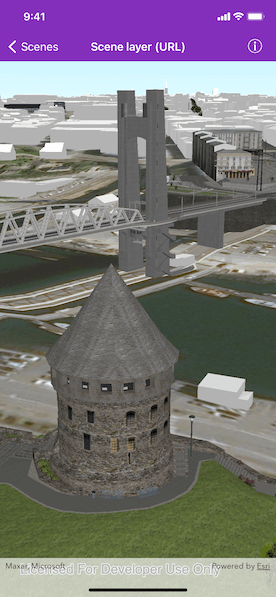
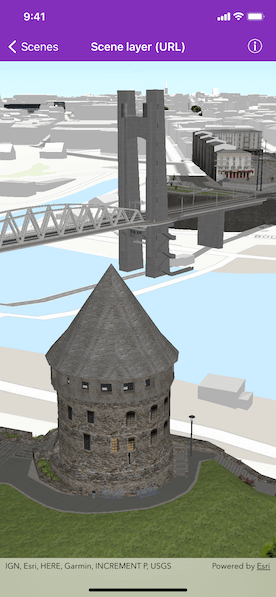
Update scene layer URL.

diff --git a/arcgis-ios-sdk-samples/Scenes/Scene layer (URL)/SceneLayerURLViewController.swift b/arcgis-ios-sdk-samples/Scenes/Scene layer (URL)/SceneLayerURLViewController.swift
@@ -27,7 +27,7 @@ class SceneLayerURLViewController: UIViewController {
         (self.navigationItem.rightBarButtonItem as! SourceCodeBarButtonItem).filenames = ["SceneLayerURLViewController"]
         
         // initialize scene with topographic basemap
-        let scene = AGSScene(basemap: .imagery())
+        let scene = AGSScene(basemap: .topographic())
         
         // assign scene to the scene view
         self.sceneView.scene = scene

diff --git a/arcgis-ios-sdk-samples/Scenes/Scene layer (URL)/README.md b/arcgis-ios-sdk-samples/Scenes/Scene layer (URL)/README.md
@@ -14,7 +14,7 @@ Pan and zoom to explore the scene.
 
 ## How it works
 
-1. Create an `AGSScene` with an `imagery()` basemap.
+1. Create an `AGSScene` with a topographic basemap.
 2. Apply the scene to an `AGSSceneView`.
 3. Create an `AGSArcGISTiledElevationSource` with a URL and add it to an `AGSSurface`.
 4. Apply the surface to the scene.
